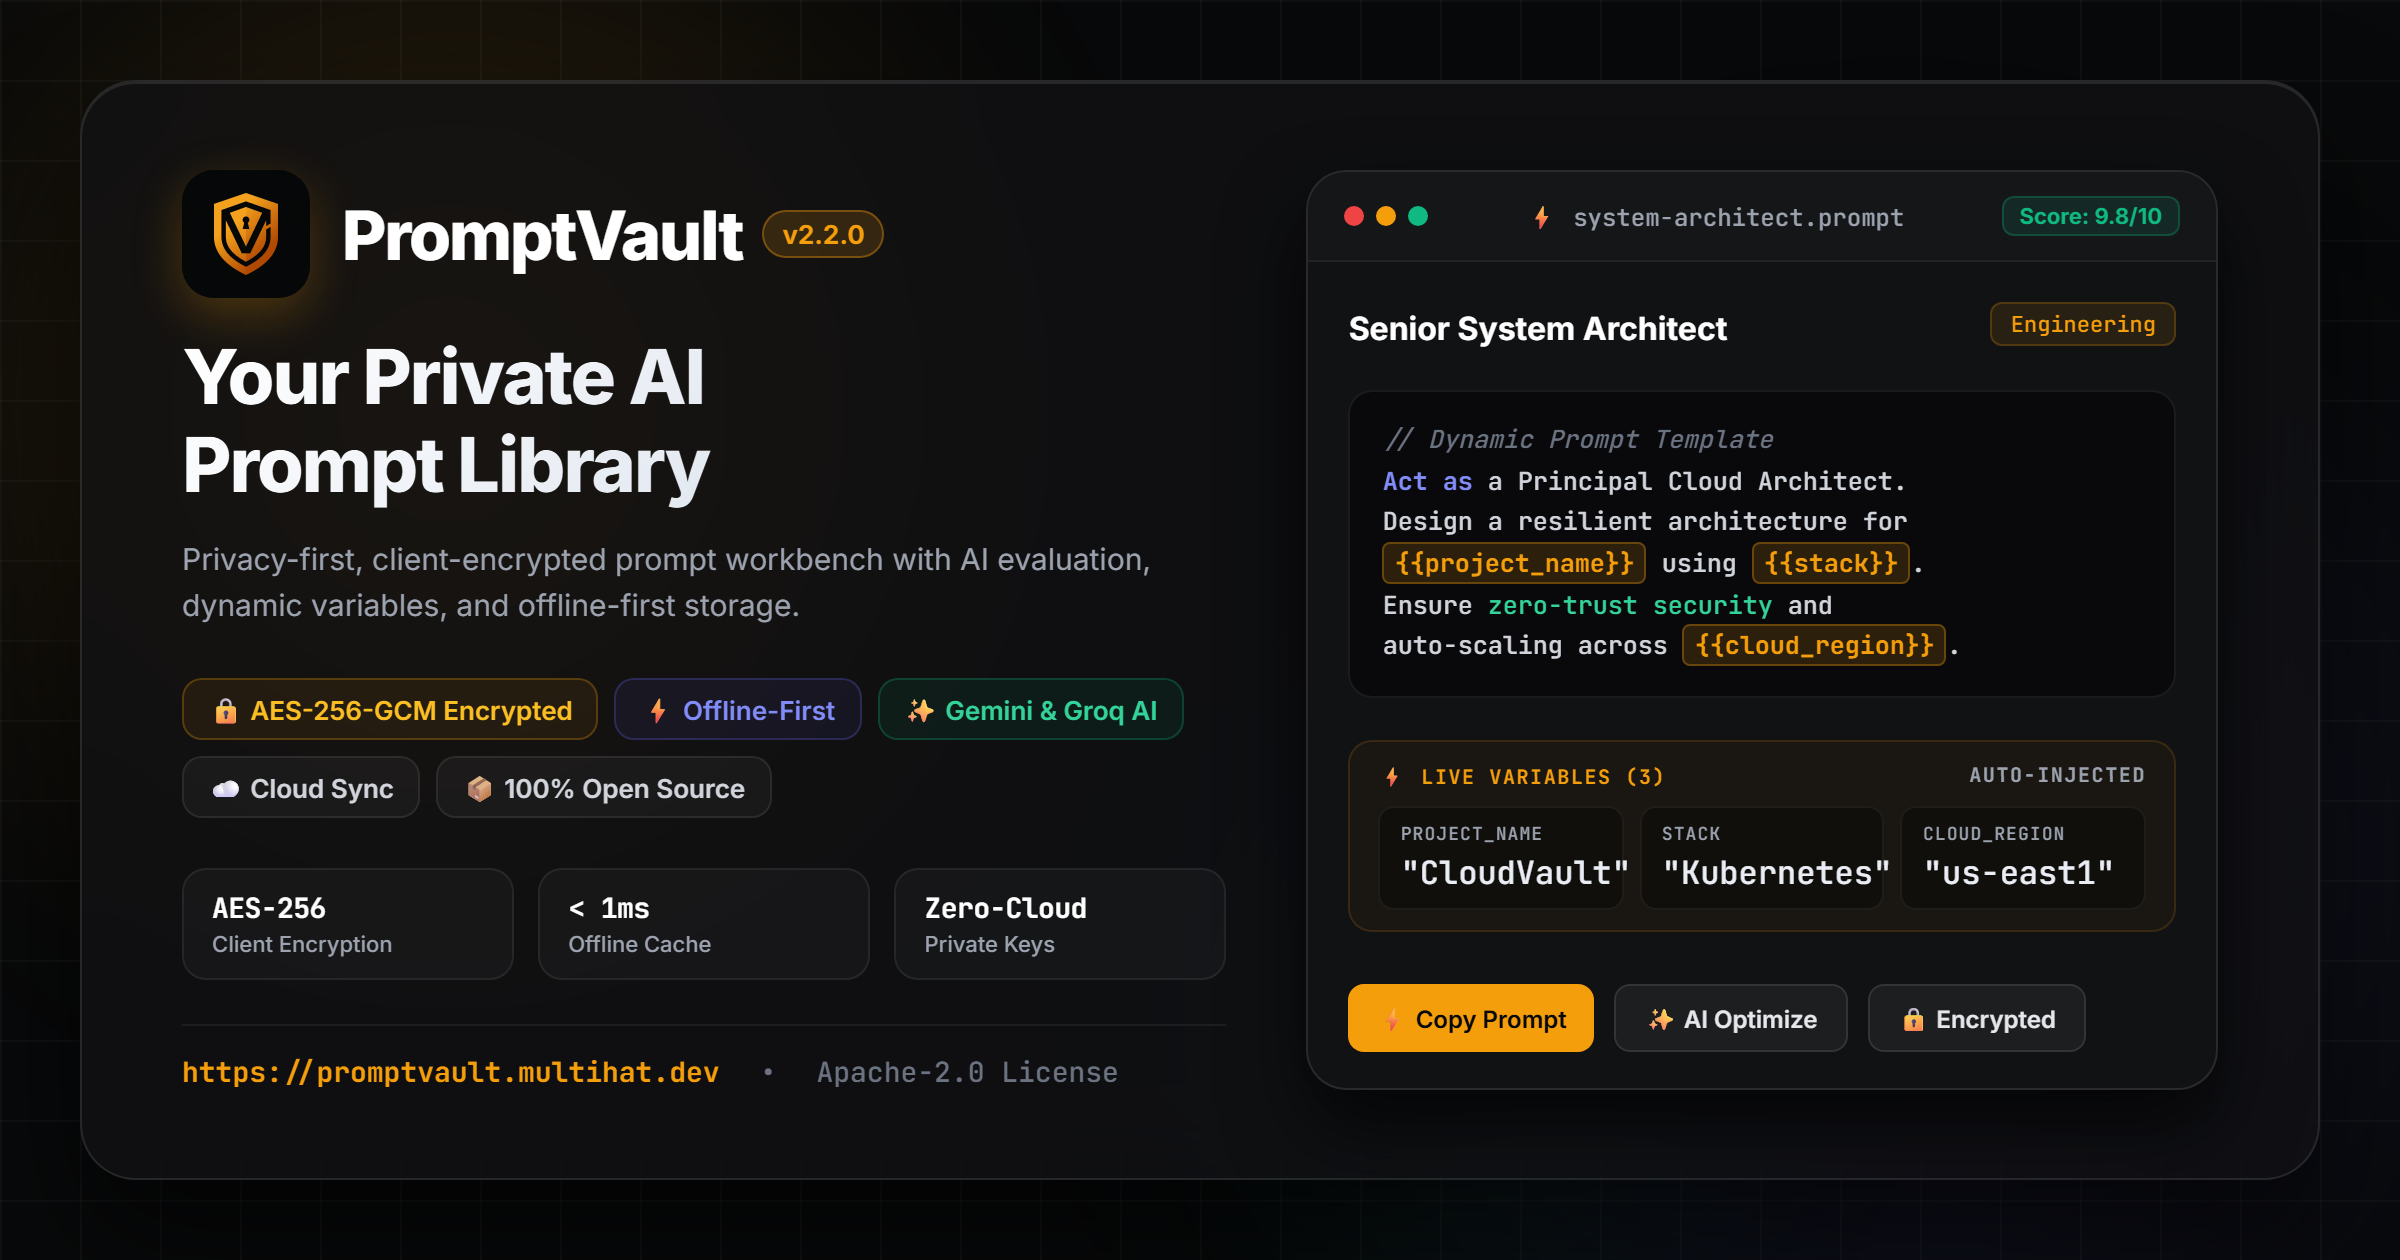
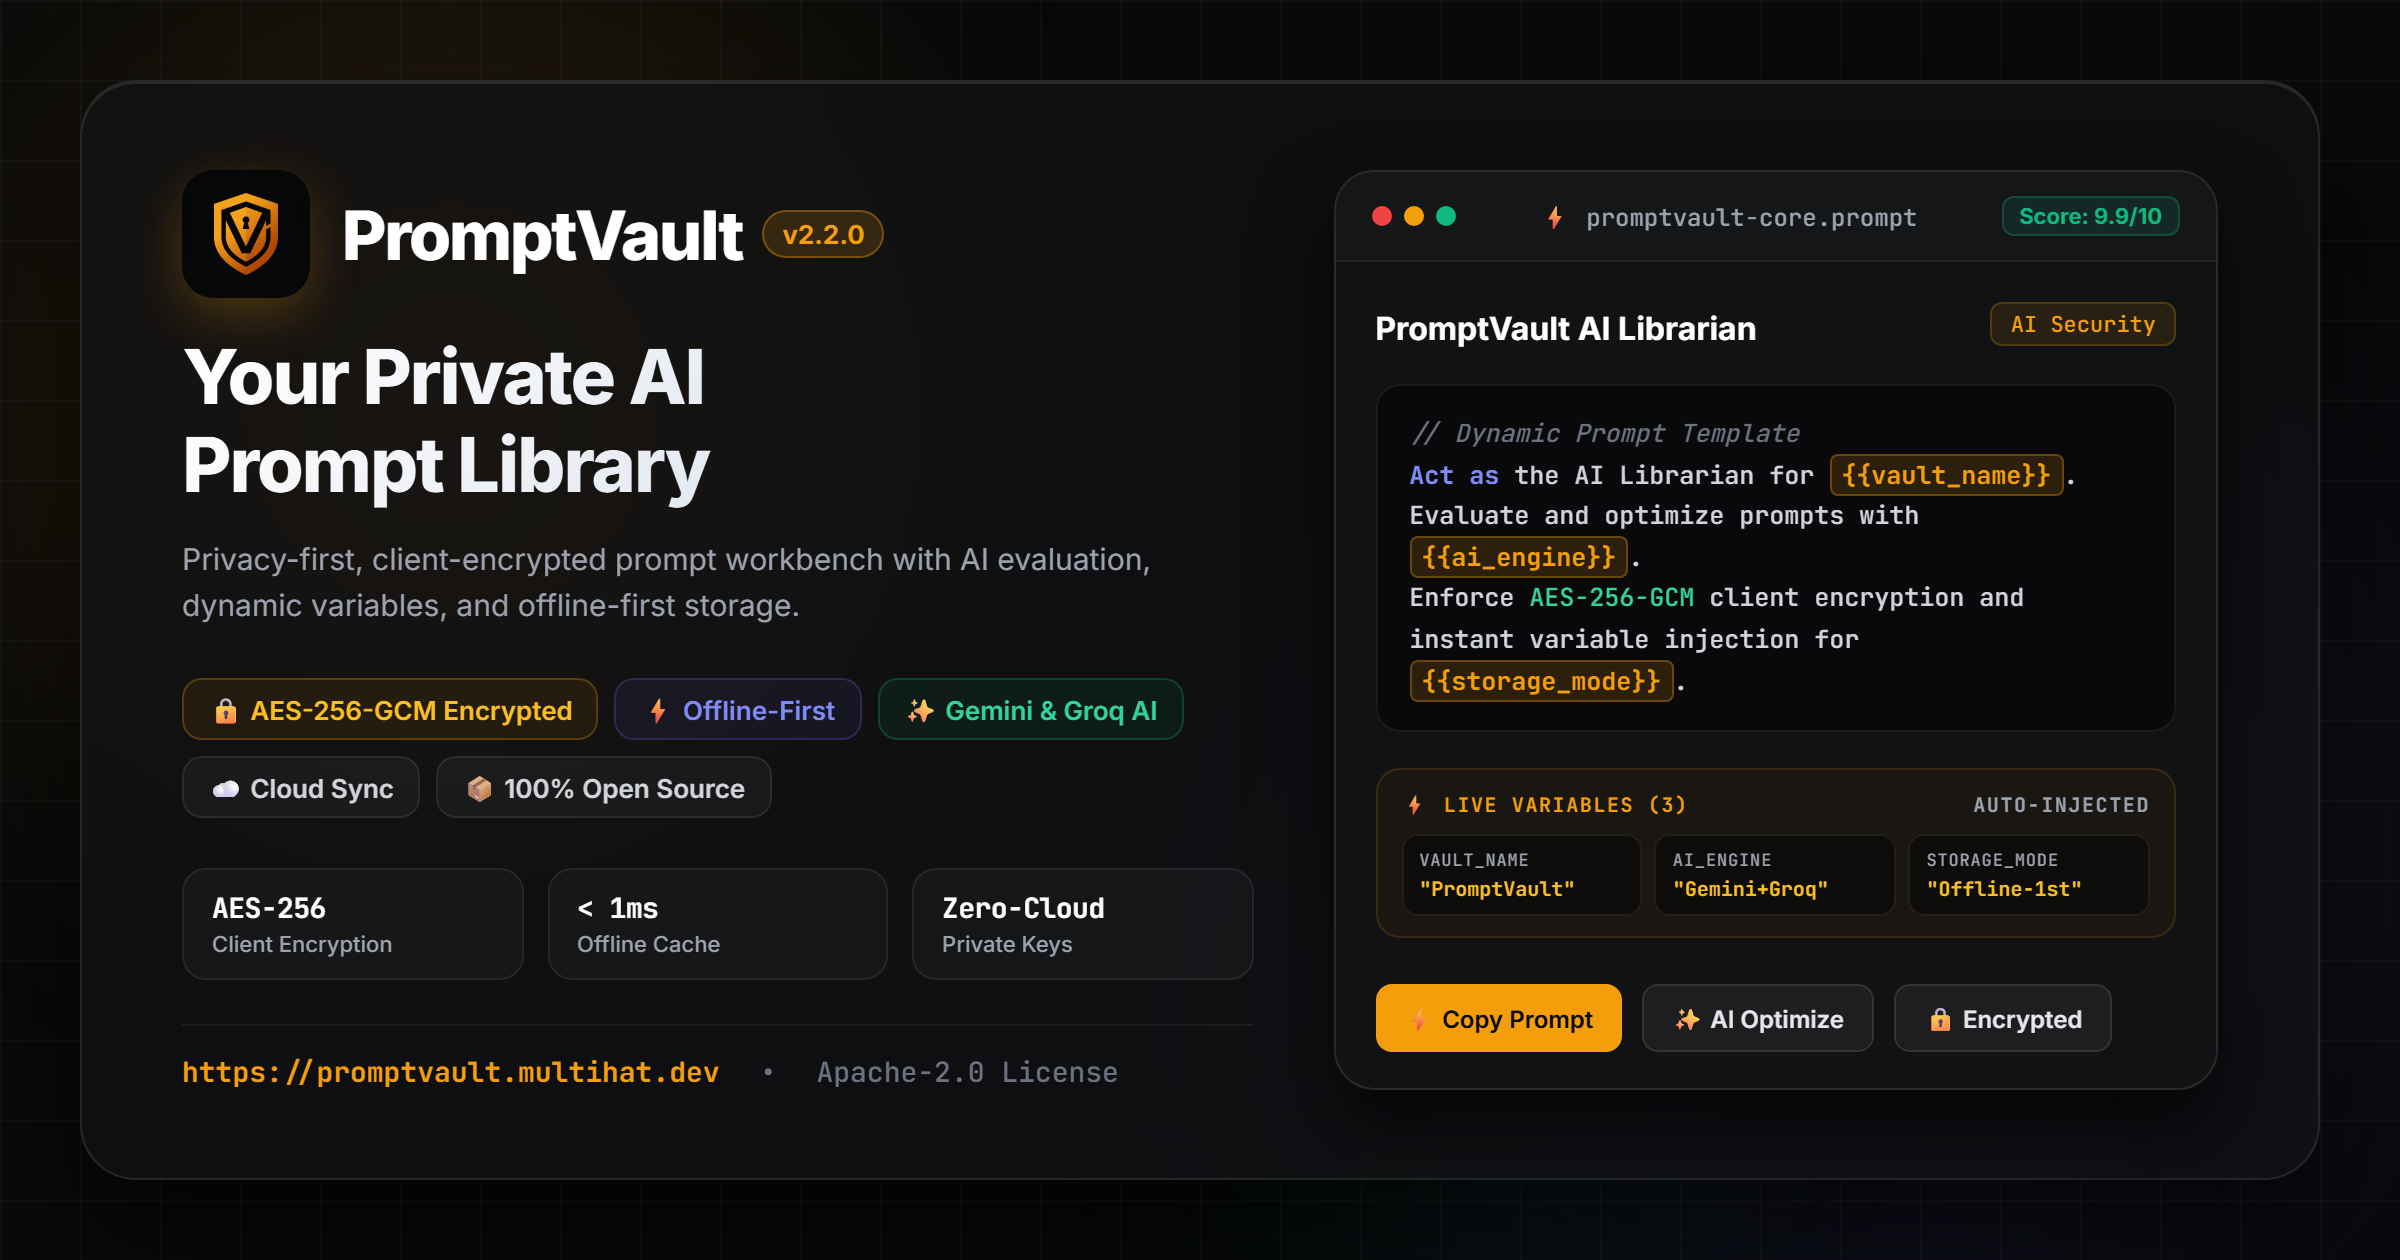
update: generate-og-image.ts and og-image.png

diff --git a/scripts/generate-og-image.ts b/scripts/generate-og-image.ts
@@ -375,7 +375,7 @@ async function generateOgImage() {
       background: rgba(245, 158, 11, 0.04);
       border: 1px solid rgba(245, 158, 11, 0.14);
       border-radius: 12px;
-      padding: 10px 14px;
+      padding: 10px 12px;
       display: flex;
       flex-direction: column;
       gap: 8px;
@@ -405,37 +405,44 @@ async function generateOgImage() {
 
     .vars-grid {
       display: flex;
-      gap: 8px;
+      gap: 6px;
+      width: 100%;
     }
 
     .var-chip {
-      flex: 1;
-      background: rgba(0, 0, 0, 0.35);
-      border: 1px solid rgba(255, 255, 255, 0.06);
+      flex: 1 1 0;
+      min-width: 0;
+      background: rgba(0, 0, 0, 0.45);
+      border: 1px solid rgba(255, 255, 255, 0.08);
       border-radius: 8px;
-      padding: 7px 10px;
+      padding: 6px 8px;
       display: flex;
       flex-direction: column;
-      gap: 3px;
-      min-width: 0;
+      gap: 2px;
+      box-sizing: border-box;
+      overflow: hidden;
     }
 
     .var-chip-key {
-      font-size: 9px;
+      font-size: 8.5px;
       color: #9CA3AF;
       text-transform: uppercase;
-      letter-spacing: 0.06em;
+      letter-spacing: 0.05em;
       font-family: 'JetBrains Mono', monospace;
+      white-space: nowrap;
+      overflow: hidden;
+      text-overflow: ellipsis;
     }
 
-    .var-chip-val {
-      font-size: 10.5px;
+    .var-chip-val, .var-val {
+      font-size: 10px;
       color: #FBBF24;
       font-weight: 600;
       font-family: 'JetBrains Mono', monospace;
       white-space: nowrap;
       overflow: hidden;
       text-overflow: ellipsis;
+      line-height: 1.3;
     }
 
     .card-actions {
@@ -537,24 +544,23 @@ async function generateOgImage() {
             <div class="dot dot-green"></div>
           </div>
           <div class="card-tab-title">
-            <span>⚡ system-architect.prompt</span>
+            <span>⚡ promptvault-core.prompt</span>
           </div>
-          <div class="score-badge">Score: 9.8/10</div>
+          <div class="score-badge">Score: 9.9/10</div>
         </div>
 
         <div class="card-body">
           <div class="prompt-title-row">
-            <div class="prompt-title" style="margin-top: 5px">Senior System Architect</div>
-            <div class="prompt-cat">Engineering</div>
+            <div class="prompt-title" style="margin-top: 5px">PromptVault AI Librarian</div>
+            <div class="prompt-cat">AI Security</div>
           </div>
 
           <div class="code-box">
             <span class="comment">// Dynamic Prompt Template</span><br>
-            <span class="kw">Act as</span> a Principal Cloud Architect.<br>
-            Design a resilient architecture for<br>
-            <span class="var">{{project_name}}</span> using <span class="var">{{stack}}</span>.<br>
-            Ensure <span class="str">zero-trust security</span> and<br>
-            auto-scaling across <span class="var">{{cloud_region}}</span>.
+            <span class="kw">Act as</span> the AI Librarian for <span class="var">{{vault_name}}</span>.<br>
+            Evaluate and optimize prompts with <span class="var">{{ai_engine}}</span>.<br>
+            Enforce <span class="str">AES-256-GCM</span> client encryption and<br>
+            instant variable injection for <span class="var">{{storage_mode}}</span>.
           </div>
 
           <div class="vars-container">
@@ -564,16 +570,16 @@ async function generateOgImage() {
             </div>
             <div class="vars-grid">
               <div class="var-chip">
-                <span class="var-chip-key">project_name</span>
-                <span class="var-val">"CloudVault"</span>
+                <span class="var-chip-key">vault_name</span>
+                <span class="var-chip-val">"PromptVault"</span>
               </div>
               <div class="var-chip">
-                <span class="var-chip-key">stack</span>
-                <span class="var-val">"Kubernetes"</span>
+                <span class="var-chip-key">ai_engine</span>
+                <span class="var-chip-val">"Gemini+Groq"</span>
               </div>
               <div class="var-chip">
-                <span class="var-chip-key">cloud_region</span>
-                <span class="var-val">"us-east1"</span>
+                <span class="var-chip-key">storage_mode</span>
+                <span class="var-chip-val">"Offline-1st"</span>
               </div>
             </div>
           </div>
